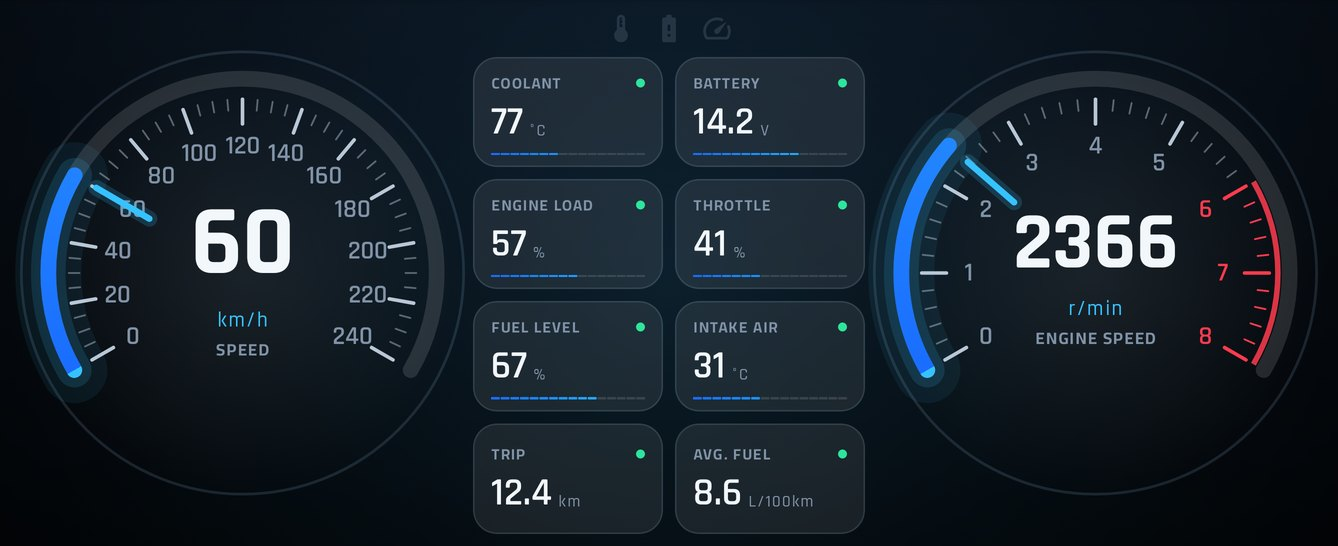
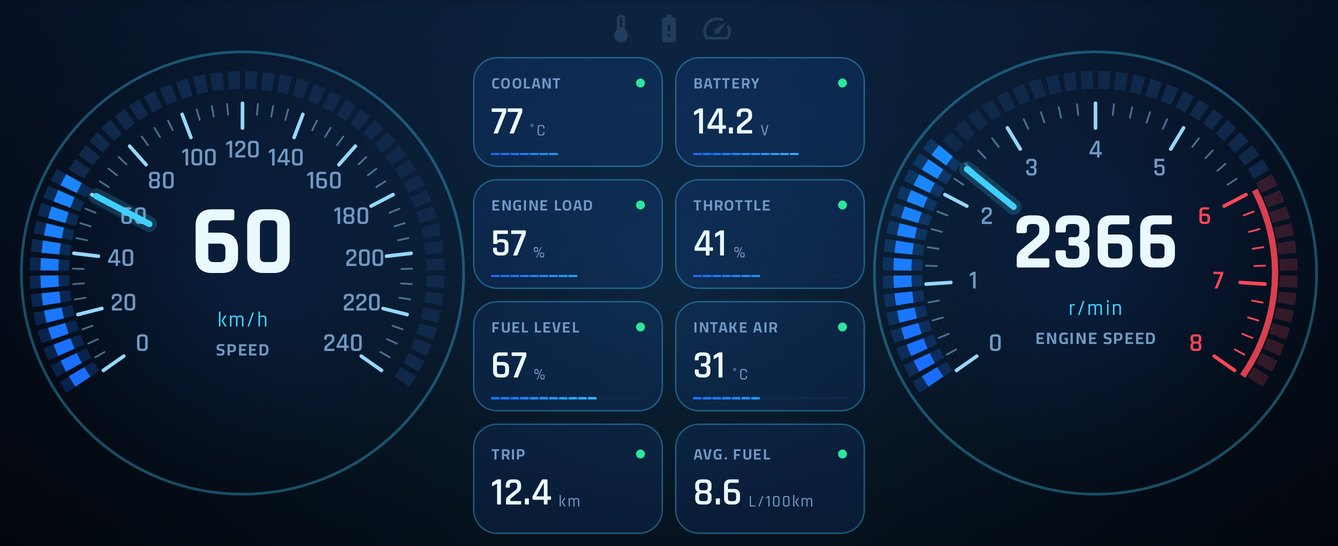
Match the JAC J7 instrument cluster look; v1.5.0
- Android Auto cockpit: navy background with cyan light rails, cyan numerals and arcs,
  glowing blue lane with skyline bars, white car, segmented mini gauges (like H/C, E/F)
- Phone theme 'JAC Original' recoloured to the same navy/cyan palette

Claude-Session: https://claude.ai/code/session_01EqNXJQmnGU7Nke7mPLuGat

diff --git a/app/src/main/java/com/jacdrive/app/auto/CockpitRenderer.kt b/app/src/main/java/com/jacdrive/app/auto/CockpitRenderer.kt
@@ -11,6 +11,7 @@ import android.graphics.RectF
 import android.graphics.Shader
 import android.graphics.Typeface
 import kotlin.math.cos
+import kotlin.math.max
 import kotlin.math.min
 import kotlin.math.pow
 import kotlin.math.sin
@@ -45,22 +46,50 @@ data class CockpitFrame(
  */
 class CockpitRenderer(private val bold: Typeface?, private val light: Typeface?) {
     private val p = Paint(Paint.ANTI_ALIAS_FLAG)
-    private val accent = Color.rgb(43, 181, 242)
-    private val amber = Color.rgb(255, 162, 62)
-    private val red = Color.rgb(255, 77, 94)
-    private val dim = Color.rgb(133, 146, 163)
+    // Palette matched to the JAC J7 instrument cluster: deep navy, electric cyan, white car.
+    private val accent = Color.rgb(64, 208, 255)
+    private val accentDeep = Color.rgb(28, 108, 255)
+    private val numeral = Color.rgb(112, 222, 255)
+    private val track = Color.rgb(16, 40, 74)
+    private val amber = Color.rgb(255, 176, 32)
+    private val red = Color.rgb(255, 70, 88)
+    private val dim = Color.rgb(112, 152, 196)
     private val purple = Color.rgb(181, 123, 255)
 
     private data class Mini(val label: String, val value: String?, val fraction: Float?, val warn: Int?)
 
     fun draw(c: Canvas, area: Rect, f: CockpitFrame) {
-        p.reset(); p.isAntiAlias = true
-        p.shader = LinearGradient(0f, 0f, 0f, c.height.toFloat(), Color.rgb(27, 34, 44), Color.rgb(8, 11, 15), Shader.TileMode.CLAMP)
-        c.drawRect(0f, 0f, c.width.toFloat(), c.height.toFloat(), p)
-        p.shader = null
+        background(c, area)
         val w = area.width().toFloat()
         val h = area.height().toFloat()
         if (h > w * 1.05f) drawPortrait(c, area, f, w, h) else drawLandscape(c, area, f, w, h)
+    }
+
+    /** Navy cluster background: vertical gradient, central glow, curved light rails at the edges. */
+    private fun background(c: Canvas, area: Rect) {
+        val cw = c.width.toFloat()
+        val chh = c.height.toFloat()
+        p.reset(); p.isAntiAlias = true
+        p.shader = LinearGradient(0f, 0f, 0f, chh, Color.rgb(11, 30, 64), Color.rgb(3, 8, 20), Shader.TileMode.CLAMP)
+        c.drawRect(0f, 0f, cw, chh, p)
+        p.shader = RadialGradient(area.exactCenterX(), area.top + area.height() * 0.55f, max(cw, chh) * 0.55f,
+            Color.argb(70, 28, 108, 255), Color.TRANSPARENT, Shader.TileMode.CLAMP)
+        c.drawRect(0f, 0f, cw, chh, p)
+        // Curved light rails (like the cluster bezel), top and bottom.
+        p.shader = null; p.style = Paint.Style.STROKE; p.strokeCap = Paint.Cap.ROUND
+        val w = area.width().toFloat()
+        val h = area.height().toFloat()
+        for ((y, bend) in listOf(area.top + h * 0.004f to h * 0.012f, area.bottom - h * 0.004f to -h * 0.012f)) {
+            val path = Path().apply {
+                moveTo(area.left + w * 0.06f, y + bend)
+                quadTo(area.exactCenterX(), y - bend, area.right - w * 0.06f, y + bend)
+            }
+            p.strokeWidth = h * 0.006f
+            p.shader = LinearGradient(area.left.toFloat(), 0f, area.right.toFloat(), 0f,
+                intArrayOf(Color.TRANSPARENT, Color.argb(200, 64, 208, 255), Color.TRANSPARENT), null, Shader.TileMode.CLAMP)
+            c.drawPath(path, p)
+        }
+        p.shader = null
     }
 
     private fun minis(f: CockpitFrame) = listOf(
@@ -89,10 +118,10 @@ class CockpitRenderer(private val bold: Typeface?, private val light: Typeface?)
     /** Tall screens (the JAC J7's portrait head unit). */
     private fun drawPortrait(c: Canvas, area: Rect, f: CockpitFrame, w: Float, h: Float) {
         val cx = area.exactCenterX()
-        header(c, cx, area.top + h * 0.04f, min(w * 0.042f, h * 0.028f), f)
+        header(c, cx, area.top + h * 0.05f, min(w * 0.042f, h * 0.028f), f)
 
         val d = min(w * 0.47f, h * 0.30f)
-        val dialCy = area.top + h * (if (f.milOn) 0.09f else 0.07f) + d / 2
+        val dialCy = area.top + h * (if (f.milOn) 0.10f else 0.08f) + d / 2
         speedDial(c, area.left + w * 0.25f, dialCy, d, f)
         rpmDial(c, area.left + w * 0.75f, dialCy, d, f)
 
@@ -149,7 +178,7 @@ class CockpitRenderer(private val bold: Typeface?, private val light: Typeface?)
     private fun rpmDial(c: Canvas, cx: Float, cy: Float, d: Float, f: CockpitFrame) {
         val rpmFrac = f.rpm?.div(8000f)
         val redFrac = f.redline / 8000f
-        dial(c, cx, cy, d, rpmFrac, if (rpmFrac != null && rpmFrac >= redFrac) red else amber, redFrac, f.rpm?.let { "%.1f".format(it / 1000f) } ?: "—", f.labels.rpm)
+        dial(c, cx, cy, d, rpmFrac, if (rpmFrac != null && rpmFrac >= redFrac) red else if (f.demo) purple else accent, redFrac, f.rpm?.let { "%.1f".format(it / 1000f) } ?: "—", f.labels.rpm)
     }
 
     private fun dial(c: Canvas, cx: Float, cy: Float, d: Float, fraction: Float?, color: Int, danger: Float?, value: String, unit: String) {
@@ -159,14 +188,14 @@ class CockpitRenderer(private val bold: Typeface?, private val light: Typeface?)
         val start = 125f
         val sweep = 290f
         p.reset(); p.isAntiAlias = true; p.style = Paint.Style.STROKE; p.strokeCap = Paint.Cap.ROUND; p.strokeWidth = stroke
-        p.color = Color.rgb(42, 51, 63); c.drawArc(rect, start, sweep, false, p)
+        p.color = track; c.drawArc(rect, start, sweep, false, p)
         // Fine ticks.
         p.strokeCap = Paint.Cap.ROUND
         for (i in 0..10) {
             val a = Math.toRadians((start + sweep * i / 10).toDouble())
             val r1 = r - stroke * 1.6f
             val r2 = r1 - d * if (i % 2 == 0) 0.05f else 0.025f
-            p.color = Color.argb(if (i % 2 == 0) 170 else 90, 255, 255, 255)
+            p.color = Color.argb(if (i % 2 == 0) 190 else 100, 150, 215, 255)
             p.strokeWidth = d * if (i % 2 == 0) 0.012f else 0.007f
             c.drawLine(cx + cos(a).toFloat() * r1, cy + sin(a).toFloat() * r1, cx + cos(a).toFloat() * r2, cy + sin(a).toFloat() * r2, p)
         }
@@ -179,15 +208,17 @@ class CockpitRenderer(private val bold: Typeface?, private val light: Typeface?)
         }
         val fr = fraction?.coerceIn(0f, 1f)
         if (fr != null && fr > 0.004f) {
-            p.color = Color.argb(60, Color.red(color), Color.green(color), Color.blue(color)); p.strokeWidth = stroke * 2.2f
+            p.color = Color.argb(55, Color.red(color), Color.green(color), Color.blue(color)); p.strokeWidth = stroke * 2.6f
             c.drawArc(rect, start, sweep * fr, false, p)
-            p.color = color; p.strokeWidth = stroke
+            p.strokeWidth = stroke
+            p.color = color
             c.drawArc(rect, start, sweep * fr, false, p)
+            p.shader = null
             val a = Math.toRadians((start + sweep * fr).toDouble())
             p.color = Color.WHITE; p.strokeWidth = stroke * 0.7f
             c.drawLine(cx + cos(a).toFloat() * (r * 0.70f), cy + sin(a).toFloat() * (r * 0.70f), cx + cos(a).toFloat() * (r - stroke), cy + sin(a).toFloat() * (r - stroke), p)
         }
-        text(c, value, cx, cy + d * 0.08f, d * 0.25f, Color.WHITE, light ?: bold, Paint.Align.CENTER)
+        text(c, value, cx, cy + d * 0.08f, d * 0.25f, if (color == accent) numeral else color, light ?: bold, Paint.Align.CENTER)
         text(c, unit, cx, cy + d * 0.20f, d * 0.065f, dim, bold, Paint.Align.CENTER)
     }
 
@@ -201,11 +232,20 @@ class CockpitRenderer(private val bold: Typeface?, private val light: Typeface?)
         val r = d / 2 - stroke
         val rect = RectF(cx - r, cy - r, cx + r, cy + r)
         p.reset(); p.isAntiAlias = true; p.style = Paint.Style.STROKE; p.strokeCap = Paint.Cap.ROUND; p.strokeWidth = stroke
-        p.color = Color.rgb(42, 51, 63); c.drawArc(rect, 150f, 240f, false, p)
-        val fr = m.fraction?.coerceIn(0f, 1f)
-        if (fr != null && fr > 0.01f) {
-            p.color = m.warn ?: if (demo) purple else accent
-            c.drawArc(rect, 150f, 240f * fr, false, p)
+        // Segmented scale (12 bars), lit up to the value.
+        val segs = 12
+        val seg = 240f / segs
+        val fr = m.fraction?.coerceIn(0f, 1f) ?: -1f
+        p.strokeCap = Paint.Cap.BUTT
+        for (i in 0 until segs) {
+            val lit = (i + 0.5f) / segs <= fr
+            p.color = when {
+                !lit -> track
+                m.warn != null -> m.warn
+                demo -> purple
+                else -> blend(accentDeep, accent, i / (segs - 1f))
+            }
+            c.drawArc(rect, 150f + i * seg + seg * 0.14f, seg * 0.72f, false, p)
         }
         text(c, m.value ?: "—", cx, cy + d * 0.1f, d * 0.24f, m.warn ?: Color.WHITE, bold, Paint.Align.CENTER)
         text(c, m.label.uppercase(), cx, cy + d / 2 + labelSize * 0.9f, labelSize, dim, bold, Paint.Align.CENTER)
@@ -223,12 +263,20 @@ class CockpitRenderer(private val bold: Typeface?, private val light: Typeface?)
             moveTo(vx - w * 0.015f, vy); lineTo(vx + w * 0.015f, vy)
             lineTo(vx + half, r.bottom); lineTo(vx - half, r.bottom); close()
         }
+        // Skyline / equaliser bars on the horizon (static decoration, like the cluster).
         p.reset(); p.isAntiAlias = true
-        p.shader = LinearGradient(0f, vy, 0f, r.bottom, Color.argb(0, 60, 75, 95), Color.argb(90, 60, 75, 95), Shader.TileMode.CLAMP)
+        val bars = 34
+        for (i in 0 until bars) {
+            val bx = r.left + w * 0.1f + (w * 0.8f) * i / (bars - 1)
+            val bh = h * (0.04f + 0.12f * (((i * 37 + 11) % 17) / 16f)) * (1f - kotlin.math.abs(i - bars / 2f) / bars)
+            p.color = Color.argb(70, 64, 208, 255)
+            c.drawRect(bx - w * 0.004f, vy - bh, bx + w * 0.004f, vy, p)
+        }
+        p.shader = LinearGradient(0f, vy, 0f, r.bottom, Color.argb(30, 28, 108, 255), Color.argb(160, 28, 108, 255), Shader.TileMode.CLAMP)
         c.drawPath(surface, p); p.shader = null
         // Edges.
         p.style = Paint.Style.STROKE; p.strokeCap = Paint.Cap.ROUND; p.strokeWidth = w * 0.008f
-        p.shader = LinearGradient(0f, vy, 0f, r.bottom, Color.argb(0, 200, 210, 220), Color.argb(230, 200, 210, 220), Shader.TileMode.CLAMP)
+        p.shader = LinearGradient(0f, vy, 0f, r.bottom, Color.argb(0, 64, 208, 255), Color.argb(255, 120, 225, 255), Shader.TileMode.CLAMP)
         c.drawLine(vx - w * 0.015f, vy, vx - half, r.bottom, p)
         c.drawLine(vx + w * 0.015f, vy, vx + half, r.bottom, p)
         p.shader = null
@@ -239,7 +287,7 @@ class CockpitRenderer(private val bold: Typeface?, private val light: Typeface?)
             val t1 = (t0 + 0.045f).coerceAtMost(1f)
             val y0 = vy + (r.bottom - vy) * t0.pow(2.2f)
             val y1 = vy + (r.bottom - vy) * t1.pow(2.2f)
-            p.color = Color.argb((50 + 180 * t0).toInt().coerceAtMost(255), 220, 228, 236)
+            p.color = Color.argb((50 + 190 * t0).toInt().coerceAtMost(255), 210, 240, 255)
             p.strokeWidth = w * (0.003f + 0.012f * t0)
             c.drawLine(vx, y0, vx, y1, p)
         }
@@ -251,7 +299,7 @@ class CockpitRenderer(private val bold: Typeface?, private val light: Typeface?)
         val l = cx - cw / 2
         val t = cy - ch / 2
         p.reset(); p.isAntiAlias = true
-        p.shader = RadialGradient(cx, t + ch, cw * 0.8f, Color.argb(70, 43, 181, 242), Color.TRANSPARENT, Shader.TileMode.CLAMP)
+        p.shader = RadialGradient(cx, t + ch, cw * 0.8f, Color.argb(110, 64, 208, 255), Color.TRANSPARENT, Shader.TileMode.CLAMP)
         c.drawOval(RectF(l - cw * 0.25f, t + ch * 0.8f, l + cw * 1.25f, t + ch * 1.25f), p); p.shader = null
         p.color = Color.argb(150, 0, 0, 0); c.drawOval(RectF(l - cw * 0.04f, t + ch * 0.88f, l + cw * 1.04f, t + ch * 1.08f), p)
         p.color = Color.rgb(11, 14, 18)
@@ -264,28 +312,34 @@ class CockpitRenderer(private val bold: Typeface?, private val light: Typeface?)
             quadTo(l + cw * 0.03f, t + ch * 0.9f, l + cw * 0.02f, t + ch * 0.84f); lineTo(l, t + ch * 0.56f)
             quadTo(l, t + ch * 0.46f, l + cw * 0.04f, t + ch * 0.42f); close()
         }
-        p.shader = LinearGradient(0f, t + ch * 0.42f, 0f, t + ch * 0.9f, Color.rgb(123, 140, 163), Color.rgb(60, 72, 88), Shader.TileMode.CLAMP)
+        p.shader = LinearGradient(0f, t + ch * 0.42f, 0f, t + ch * 0.9f, Color.rgb(250, 252, 255), Color.rgb(176, 188, 204), Shader.TileMode.CLAMP)
         c.drawPath(body, p)
         val cabin = Path().apply {
             moveTo(l + cw * 0.14f, t + ch * 0.44f); lineTo(l + cw * 0.24f, t + ch * 0.08f)
             quadTo(l + cw * 0.26f, t + ch * 0.02f, l + cw * 0.32f, t + ch * 0.02f); lineTo(l + cw * 0.68f, t + ch * 0.02f)
             quadTo(l + cw * 0.74f, t + ch * 0.02f, l + cw * 0.76f, t + ch * 0.08f); lineTo(l + cw * 0.86f, t + ch * 0.44f); close()
         }
-        p.shader = LinearGradient(0f, t, 0f, t + ch * 0.44f, Color.rgb(140, 157, 179), Color.rgb(123, 140, 163), Shader.TileMode.CLAMP)
+        p.shader = LinearGradient(0f, t, 0f, t + ch * 0.44f, Color.rgb(232, 238, 246), Color.rgb(250, 252, 255), Shader.TileMode.CLAMP)
         c.drawPath(cabin, p); p.shader = null
         val glass = Path().apply {
             moveTo(l + cw * 0.22f, t + ch * 0.36f); lineTo(l + cw * 0.29f, t + ch * 0.10f)
             lineTo(l + cw * 0.71f, t + ch * 0.10f); lineTo(l + cw * 0.78f, t + ch * 0.36f); close()
         }
-        p.color = Color.rgb(28, 39, 52); c.drawPath(glass, p)
+        p.color = Color.rgb(20, 30, 44); c.drawPath(glass, p)
         // Tail lamps.
         p.color = red
         c.drawRoundRect(RectF(l + cw * 0.05f, t + ch * 0.49f, l + cw * 0.25f, t + ch * 0.535f), ch * 0.02f, ch * 0.02f, p)
         c.drawRoundRect(RectF(l + cw * 0.75f, t + ch * 0.49f, l + cw * 0.95f, t + ch * 0.535f), ch * 0.02f, ch * 0.02f, p)
         p.strokeWidth = ch * 0.012f; c.drawLine(l + cw * 0.25f, t + ch * 0.51f, l + cw * 0.75f, t + ch * 0.51f, p)
-        p.color = Color.rgb(40, 50, 64)
+        p.color = Color.rgb(150, 160, 175)
         c.drawRoundRect(RectF(cx - cw * 0.14f, t + ch * 0.62f, cx + cw * 0.14f, t + ch * 0.72f), ch * 0.02f, ch * 0.02f, p)
     }
+
+    private fun blend(a: Int, b: Int, t: Float): Int = Color.rgb(
+        (Color.red(a) + (Color.red(b) - Color.red(a)) * t).toInt(),
+        (Color.green(a) + (Color.green(b) - Color.green(a)) * t).toInt(),
+        (Color.blue(a) + (Color.blue(b) - Color.blue(a)) * t).toInt(),
+    )
 
     private fun text(c: Canvas, s: String, x: Float, y: Float, size: Float, color: Int, tf: Typeface?, align: Paint.Align) {
         p.reset(); p.isAntiAlias = true

diff --git a/core-ui/src/main/java/com/jacdrive/ui/cockpit/CockpitStyle.kt b/core-ui/src/main/java/com/jacdrive/ui/cockpit/CockpitStyle.kt
@@ -46,23 +46,24 @@ data class CockpitStyle(
 
 object CockpitStyles {
 
+    /** Matched to the JAC J7 instrument cluster: deep navy, electric cyan, blue glow. */
     val JacOriginal = CockpitStyle(
         id = CockpitThemeId.JAC_ORIGINAL,
-        backgroundTop = Color(0xFF0C1522),
-        backgroundBottom = Color(0xFF030508),
+        backgroundTop = Color(0xFF0B1E40),
+        backgroundBottom = Color(0xFF030814),
         defaultBackground = DashboardBackground.GRADIENT,
-        panel = Color(0x14FFFFFF),
-        panelBorder = Color(0x22A9D8FF),
-        accent = Color(0xFF36C2FF),
-        accentSecondary = Color(0xFF1A6DFF),
-        text = Color(0xFFF2F7FC),
-        textDim = Color(0xFF8193A8),
-        track = Color(0x1FFFFFFF),
-        tick = Color(0xFFB9C7D6),
+        panel = Color(0x1A1C6CFF),
+        panelBorder = Color(0x5540D0FF),
+        accent = Color(0xFF40D0FF),
+        accentSecondary = Color(0xFF1C6CFF),
+        text = Color(0xFFEAF8FF),
+        textDim = Color(0xFF7098C4),
+        track = Color(0xFF10284A),
+        tick = Color(0xFF96D7FF),
         ok = Color(0xFF2EE59D),
         warning = Color(0xFFFFB020),
-        critical = Color(0xFFFF3B4E),
-        gauge = GaugeStyle(sweepDegrees = 240f, arcWidthFraction = 0.035f, segmented = false, showNeedle = true, glow = true),
+        critical = Color(0xFFFF4658),
+        gauge = GaugeStyle(sweepDegrees = 250f, arcWidthFraction = 0.04f, segmented = true, segmentCount = 50, showNeedle = true, glow = true),
     )
 
     val RacingRed = CockpitStyle(
